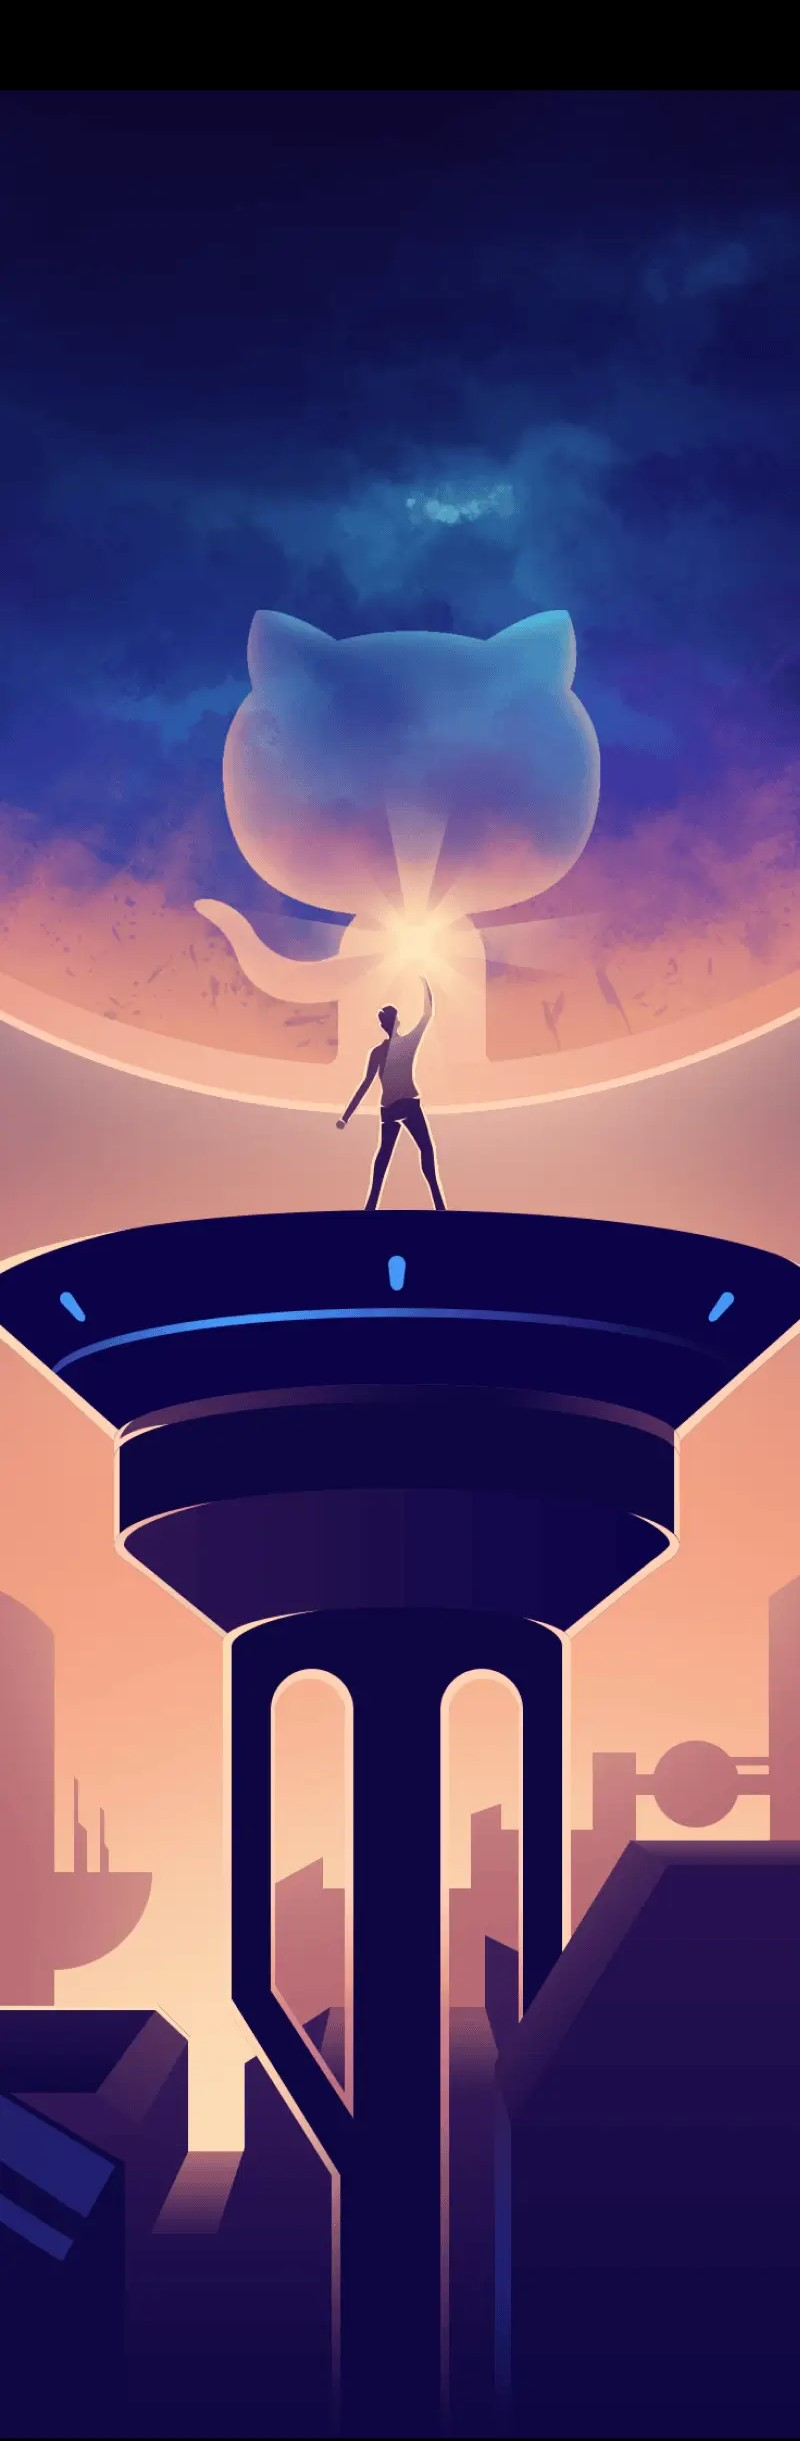
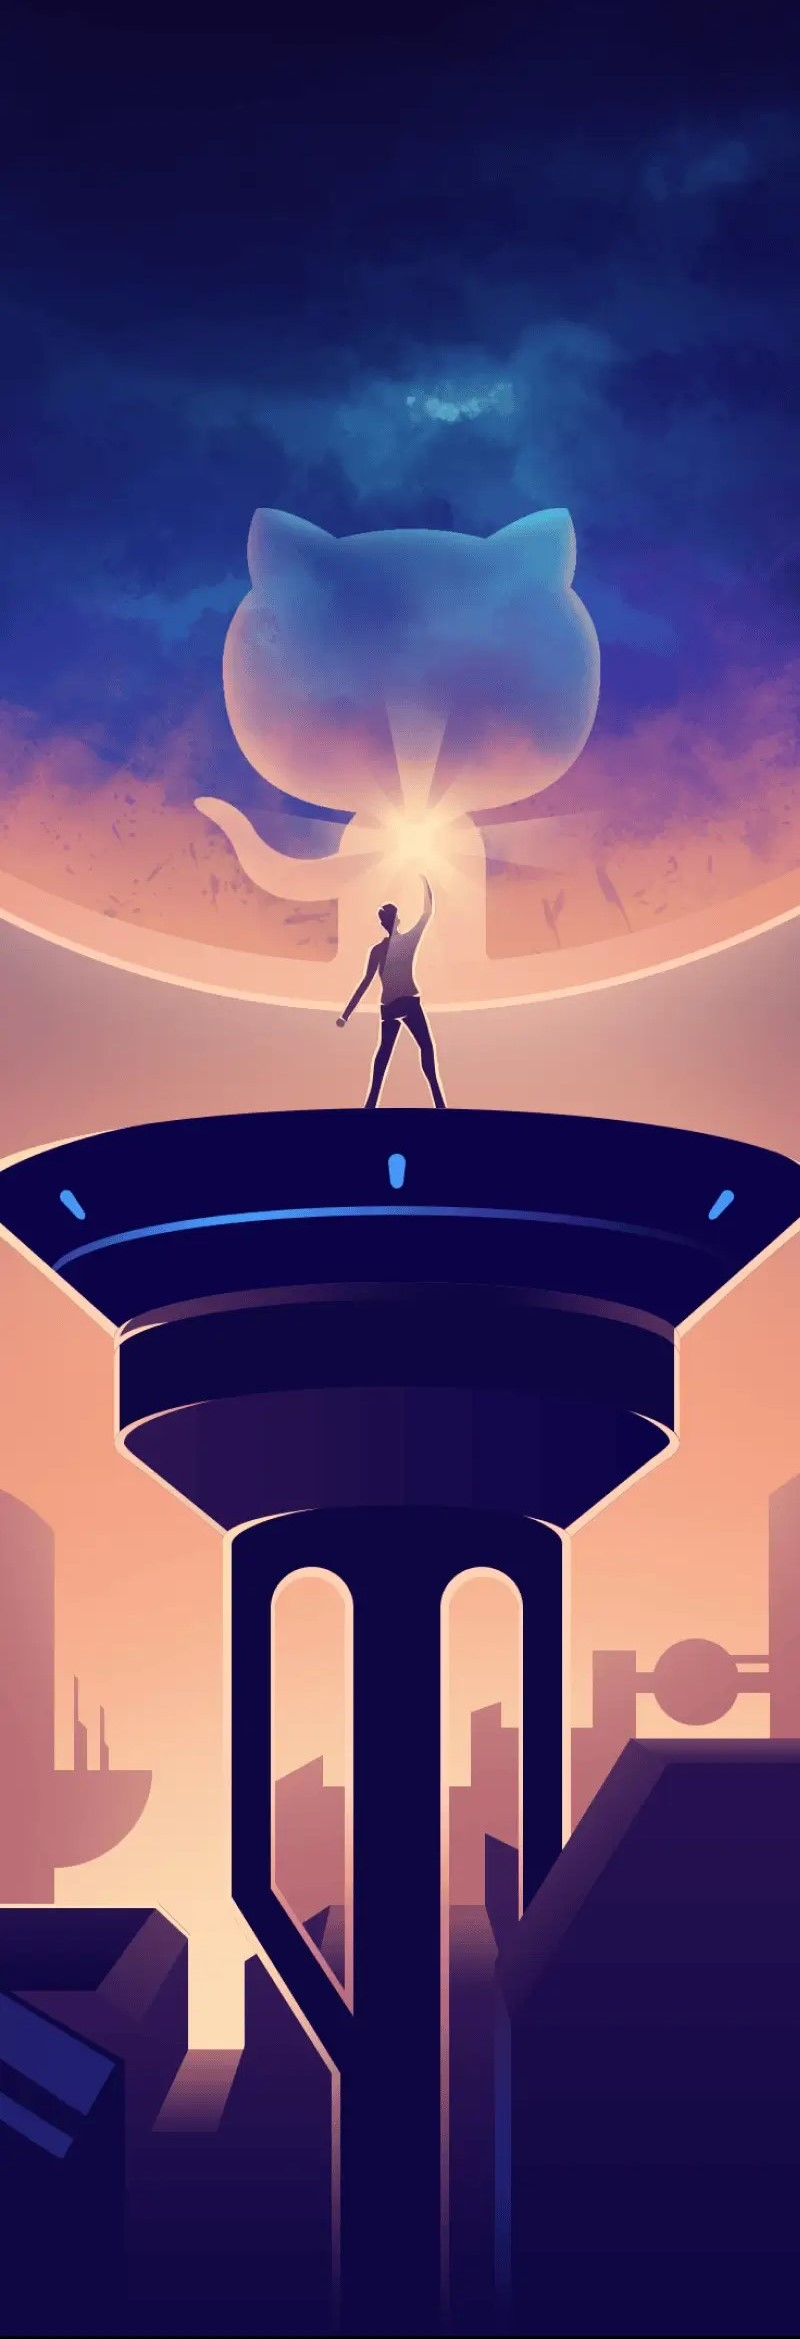
stlyles: Mobile Responsiveness Implemented

diff --git a/src/pages/index.module.css b/src/pages/index.module.css
@@ -32,6 +32,7 @@ body {
 	margin: auto;
 	background: url('/assets/webs/hero-lg.webp');
 	background-size: contain;
+  background-repeat: no-repeat;
 }
 
 .hero__title {
@@ -44,33 +45,54 @@ body {
 	/* -webkit-background-clip: text;
   -webkit-text-fill-color: transparent; */
 	text-align: left;
-  font-style: italic;
+	font-style: italic;
 }
 
 .span__js {
+  font-size: 4rem;
 	background-image: linear-gradient(79.32deg, #1c1151 14.31%, #654294 54.03%, #d67ebd 97.77%);
-  padding-inline: 1rem;
+	padding-inline: 1rem;
+}
+
+
+/* for tablet */
+@media screen and (max-width: 768px) {
+	.hero__title {
+		font-size: 4.5rem;
+		text-align: center;
+		line-height: 1.5;
+    margin-inline: 1rem;
+	}
+	.span__js {
+		font-size: 4.5rem;
+	}
+	.hero {
+		background: url('/assets/webs/hero-sm.jpg');
+		background-size: cover;
+		width: 100vw;
+		height: 100vh !important;
+		position: relative;
+		overflow: hidden;
+		top: 0;
+	}
 }
 
 /* for mobile */
-@media screen and (max-width: 460px) {
-  .hero__title {
-    font-size: 2.5rem;
-  }
-  .span__js {
-    font-size: 2.5rem;
-    margin-left: -2.5rem;
-    padding-right: 2rem;
-  }
-  .hero {
-    background: url('/assets/webs/hero-sm.jpg');
-    background-size: cover;
-    width: 100vw;
-    height: 100vh !important;
-    position: relative;
-    overflow: hidden;
-    top: -2rem;
-  }
+@media screen and (max-width: 469px) {
+	.hero__title {
+		font-size: 2.5rem;
+		text-align: center;
+    margin-inline: 0;
+	}
+	.span__js {
+		font-size: 2.5rem;
+	}
+	.hero {
+		background: url('/assets/webs/hero-sm.jpg');
+		background-size: cover;
+		width: 100vw;
+		height: 100vh !important;
+		position: relative;
+		overflow: hidden;
+	}
 }
-
-

diff --git a/src/css/custom.css b/src/css/custom.css
@@ -174,10 +174,15 @@ div[class^='announcementBar_'] {
 .navbar {
 	background-image: linear-gradient(79.32deg, #1c1151 14.31%, #25064d 54.03%, #081470 97.77%);
 	color: #fff;
-  border-bottom: 1px solid var(--ifm-color-emphasis-800);
+	border-bottom: 1px solid var(--ifm-color-emphasis-800);
 }
 
-
 #__docusaurus {
-  background-color: #0e0641;
+	background-color: #0e0641;
+}
+
+@media screen and (min-width: 768px) {
+	.container {
+		margin-inline: 3rem;
+	}
 }

diff --git a/src/pages/index.js b/src/pages/index.js
@@ -28,7 +28,7 @@ export default function Home() {
 			{/* set background hero image */}
 
 			<div className={`${styles.hero} hero hero--primary hero--full-height`}>
-				<div className='container' style={{marginInline: "3rem"}}>
+				<div className='container' >
 					<div className='row'>
 						<div className='col col--6'>
 							<h1 className={styles.hero__title}>Namaste <span className={styles.span__js}> JavaScript</span> Handbook</h1>
